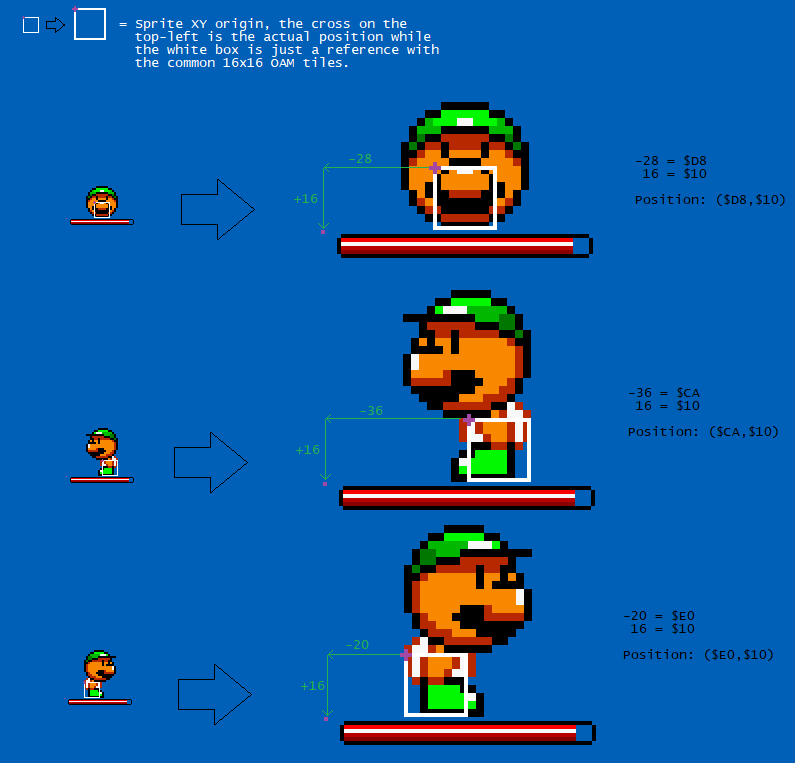
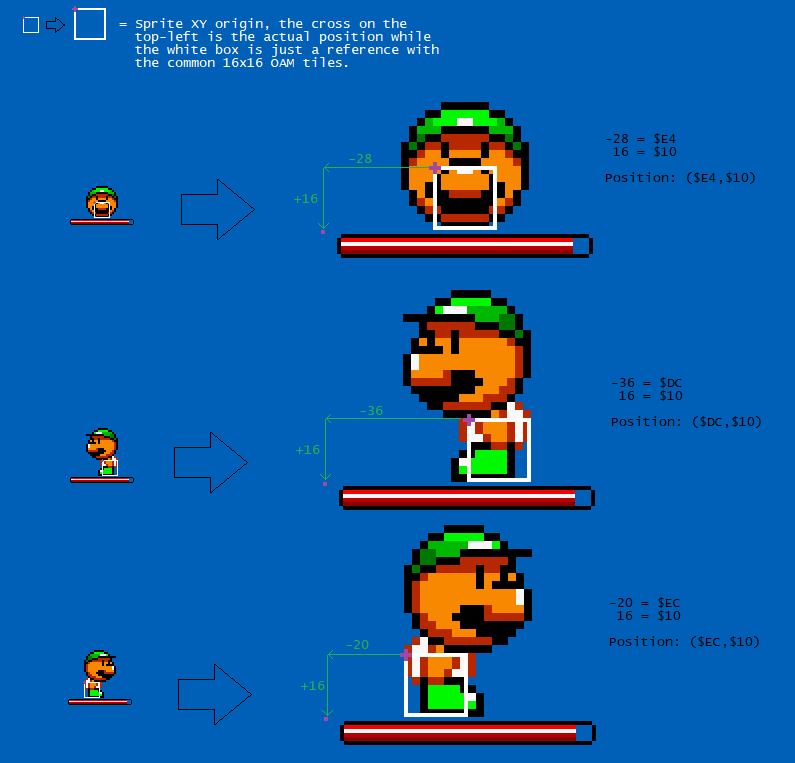
updates
-Added a centering js calculator and links to it
-GetToCenterOfSprite now compressed
-The coordinate numbers in GraphicalBar_Offsetting_GMK to the right are completely wrong, due to me thinking those numbers before the equal sign are hex numbers. This is now fixed thanks to me testing the newly created js file
-JS_OAM_Side_notes corrected typo

Todo: test the leftwards bar:
--If there are possible one-off due to positive/negative coordinates and using the flooring division of each direction (left and right). I know the fact that bigint, when dividing and getting the quotient, it ROUNDS TOWARDS ZERO, meaning negative numbers will round upwards like a ceiling function. I think I should create a floor division function so that it rounds down on both negative and positive numbers.
--Get the GMK boss sprite to have defines that would auto-calculate on the defines on where to place the bar when it fills leftwards.

Changed region(s): [[0.7547, 0.1809, 0.9962, 0.2713], [0.7547, 0.7837, 0.966, 0.8742], [0.7547, 0.4823, 0.966, 0.5727]]

diff --git a/readme_files/JS_BarOAMCenterPos.html b/readme_files/JS_BarOAMCenterPos.html
@@ -1,0 +1,120 @@
+<html>
+	<head>
+		<style>
+			html {
+			background-color: #000207;
+			color: white;
+			font-family: sans-serif;
+			}
+			
+			table, th, td {
+			border: 1px solid white;
+			border-collapse: collapse;
+			}
+			
+			div.SmallFont {
+				font-size: 11px;
+			}
+			
+			div.StatisticsTable {
+				max-width:900px;
+			}
+			input[type='text'] { font-family: monospace;}
+			input[type='number'] { font-family: monospace;}
+			
+			span.NoLineBreak {
+				white-space: nowrap;
+			}
+			
+			abbr{cursor: help;}
+			
+			
+			img.img-hor {
+				-moz-transform: scaleX(-1);
+				-o-transform: scaleX(-1);
+				-webkit-transform: scaleX(-1);
+				transform: scaleX(-1);
+				filter: FlipH;
+				-ms-filter: "FlipH";
+			}
+		</style>
+	</head>
+<a href="../GraphicalBar_ReadmeDocumentation.html#CenterBar">Back to main readme</a><br>
+<a href="GMKBossSummary.html#From_JS_BarOAMCenterPos">Back to GMK summary</a>
+<ul>
+	<li><kbd>GetToCenterOfSprite</kbd>: <input type="number" id="GetToCenterOfSprite" onchange="CalculateBarCenteringPos()"></li>
+	<li>
+		Direction:<br>
+		<input type="radio" name="BarDirection" id="BarDirectionL2R" checked onchange="CalculateBarCenteringPos()"><label for="BarDirectionL2R">Left to Right</label><br>
+		<input type="radio" name="BarDirection" id="BarDirectionR2L" onchange="CalculateBarCenteringPos()"><label for="BarDirectionR2L">Right to Left</label>
+	</li>
+	<li><kbd>BarWidth</kbd>: <input type="number" id="BarWidth" min="0" max="256" onchange="CalculateBarCenteringPos()"></li>
+	<li><kbd>EdgeOriginDistance</kbd>: <input type="number" id="EdgeOriginDistance" min="0" max="7" onchange="CalculateBarCenteringPos()"></li>
+</ul>
+<hr>
+<span id="Output"></span>
+<script>
+	function CalculateBarCenteringPos() {
+		var Output = ""
+		var GetToCenterOfSprite = CorrectSignedDecBigIntValue(document.getElementById("GetToCenterOfSprite").value)
+		document.getElementById("GetToCenterOfSprite").value = GetToCenterOfSprite.toString(10)
+		
+		var BarWidth = BigintClamp(CorrectSignedDecBigIntValue(document.getElementById("BarWidth").value), 0n, 256n)
+		document.getElementById("BarWidth").value = BarWidth.toString(10)
+		
+		var EdgeOriginDistance = BigintClamp(CorrectSignedDecBigIntValue(document.getElementById("EdgeOriginDistance").value), 0n, 7n)
+		document.getElementById("EdgeOriginDistance").value = EdgeOriginDistance.toString(10)
+		
+		var BarPosition = 0n
+			//^Placeholder for result later.
+		
+		if (document.getElementById("BarDirectionL2R").checked == true) {
+			BarPosition = GetToCenterOfSprite + ( - (BarWidth / 2n) - EdgeOriginDistance)
+		} else {
+			BarPosition = GetToCenterOfSprite + (BarWidth / 2n) - EdgeOriginDistance
+		}
+		
+		Output += "Bar origin position realtive to sprite&apos;s center: "
+		if (((BarPosition >= -128n)&&(BarPosition <= 127n)) == false) {
+			Output += "<font color='red'>"
+		}
+		Output += "<kbd>" + ConvertNegativeDecimalNumberToParenthesisNotationString(BarPosition) + "</kbd>"
+		if (((BarPosition >= -128n)&&(BarPosition <= 127n)) == false) {
+			Output += "</font>"
+		}
+		
+		if ((BarPosition >= -128n)&&(BarPosition <= 127n)) {
+			Output += " (Two&apos;s complement hex: <kbd>$" + pad((BigInt.asUintN(8, BarPosition)).toString(16).toUpperCase(), 2) + "</kbd>)"
+		}
+		document.getElementById("Output").innerHTML = Output
+	
+	}
+	//Clamp
+		function BigintClamp(num, min, max) {
+			//Restrict a number within a specified range, bigInt edition.
+			return num <= min ? min : num >= max ? max : num;
+		}
+	//Check if given string can be converted into bigInt value (including negatives)
+		function CorrectSignedDecBigIntValue(String) {
+			if ((/^-?\d+$/).test(String) == false) {
+				String = 0n
+			}
+			return CanConvertHexStringToBigInt = BigInt(String)
+		}
+	//Convert negative number to parenthesis notation string (example: -3 is now "(-3)")
+		function ConvertNegativeDecimalNumberToParenthesisNotationString(BigIntNumber) {
+			if (BigIntNumber < 0n) {
+				BigIntNumber = "(" + BigIntNumber.toString(10) + ")"
+			} else {
+				BigIntNumber = BigIntNumber.toString(10)
+			}
+			return BigIntNumber
+		}
+	//Pad zeroes if fewer digits
+		function pad(num, size) {
+			//This adds leading zeroes. [size] is the number of digits at minimum to show (less than that will fill this with 0s).
+			var s = num+"";
+			while (s.length < size) s = "0" + s;
+			return s;
+		}
+</script>

diff --git a/GraphicalBar_ReadmeDocumentation.html b/GraphicalBar_ReadmeDocumentation.html
@@ -46,6 +46,9 @@ length of the bar.<p>
 <li><a href="#Installation" id="InstallationBack">Installation (test run, uberasm tool)</a></li>
 <li><a href="#OwnGraphicalBar" id="OwnGraphicalBarBack">Displaying your own value as a graphical bar (Uberasm tool, Layer 3)</a></li>
 <li><a href="#CustomSprites" id="CustomSprites_Back">Drawing OAM (Normal sprites (SMW sprites or pixi), not cluster, extended, minor extended, etc.)</li>
+	<ul>
+		<li><a href="readme_files/GMKBossSummary.html" id="GMKBossSummary_TOCBack">Giant Masked Koopa boss editing example summary</li>
+	</ul>
 <li><a href="#DrawOamPatch" id="DrawOamPatch_Back">Drawing OAM (not using sprite slots, but patch using OAM).</a></li>
 <li><a href="#AsmDocumentation" id="AsmDocumentationBack">ASM Documentation</a></li>
 <ul>
@@ -112,15 +115,17 @@ length of the bar.<p>
 <p>Note many of these uses <kbd><a href="https://developer.mozilla.org/en-US/docs/Web/JavaScript/Reference/Global_Objects/BigInt">BigInt</a></kbd>, to avoid potential precision issues with double-precision. Make sure your browser
 supports it.</p>
 <ul>
-<li><a id="TopJSLink" href="readme_files/JS_GraphicalBarCalculator2.html">Calculate the graphical bar's memory usage</a></li>
-<li><a id="OAMNotes" href="readme_files/JS_OAM_Side_notes.html">OAM table and conversion sheet</a></li>
-<li>Tile property converters. Note they're not the same, rather similar, layer 3 has 2-bits (0-3) for page number and 1-bit (0-1) for priority, while sprites
+	<li><a id="TopJSLink" href="readme_files/JS_GraphicalBarCalculator2.html">Calculate the graphical bar's memory usage</a></li>
+	<li><a id="OAMNotes" href="readme_files/JS_OAM_Side_notes.html">OAM table and conversion sheet</a></li>
+	<li>Tile property converters. Note they're not the same, rather similar, layer 3 has 2-bits (0-3) for page number and 1-bit (0-1) for priority, while sprites
 have 1-bit for page number and 2-bits of priority:</li>
 <ul>
-<li><a id="Layer3Props" href="readme_files/JS_YXPCCCTT.html">Layer 3 properties (YXPCCCTT) converter</a></li>
-<li><a id="SpriteProps" href="readme_files/JS_YXPPCCCT.html">Sprite properties (YXPPCCCT) converter</a></li>
+	<li><a id="Layer3Props" href="readme_files/JS_YXPCCCTT.html">Layer 3 properties (YXPCCCTT) converter</a></li>
+	<li><a id="SpriteProps" href="readme_files/JS_YXPPCCCT.html">Sprite properties (YXPPCCCT) converter</a></li>
 </ul>
+	<li><a id="CenterBar" href="readme_files/JS_BarOAMCenterPos.html">Getting the sprite graphical bar to center with the sprite</a></li>
 </ul>
+
 <hr>
 <h2><a href="#InstallationBack" id="Installation">^</a>Installation (test run, uberasm tool)</h2>
 <ol>

diff --git a/readme_files/GMKBossSummary.html b/readme_files/GMKBossSummary.html
@@ -1,4 +1,5 @@
-<a href="../GraphicalBar_ReadmeDocumentation.html#GMKBossSummary_Back">Back</a>
+<a href="../GraphicalBar_ReadmeDocumentation.html#GMKBossSummary_Back">Back</a><br>
+<a href="../GraphicalBar_ReadmeDocumentation.html#GMKBossSummary_TOCBack">Back (to table of contents in main page)</a>
 
 <html>
 	<head>
@@ -386,6 +387,8 @@ Which is found in <kbd>SMW-Graphical-bar-display/GraphicalBarDefines/SpriteOAMSe
 		An easier method of solving the X position of the bar to center a given point is by using this formula:<br><br>
 
 		<kbd>BarXPosition = GetToCenterOfSprite + BarXPosCenterOffset</kbd><br><br>
+		
+		<a id="From_JS_BarOAMCenterPos" href="JS_BarOAMCenterPos.html">Simple JavaScript calculator provided</a><br><br>
 		
 		Note: Signed means a variable can be negative, indicating a leftwards movement.<br><br>
 

diff --git a/readme_files/JS_OAM_Side_notes.html b/readme_files/JS_OAM_Side_notes.html
@@ -32,7 +32,7 @@ slot numbers, indexes, and the RAM to write.<p>
 
 <li>Normal Sprite OAM slot numbering and Normal sprite OAM index numbering: Refers to normal sprites
 that are part of the 12-slot (22 for sa-1), not extended, minor extended, or cluster. They
-use $15EA,x ($33A2,x under SA-1) which is an offset from <i>halfways</i> from the table (they load
+use $15EA,x ($33A2,x under SA-1) which is an offset from <i>halfway</i> from the table (they load
 starting at $0300 and $0460 instead of $0200 and $0420)</li><br>
 </ul>
 
